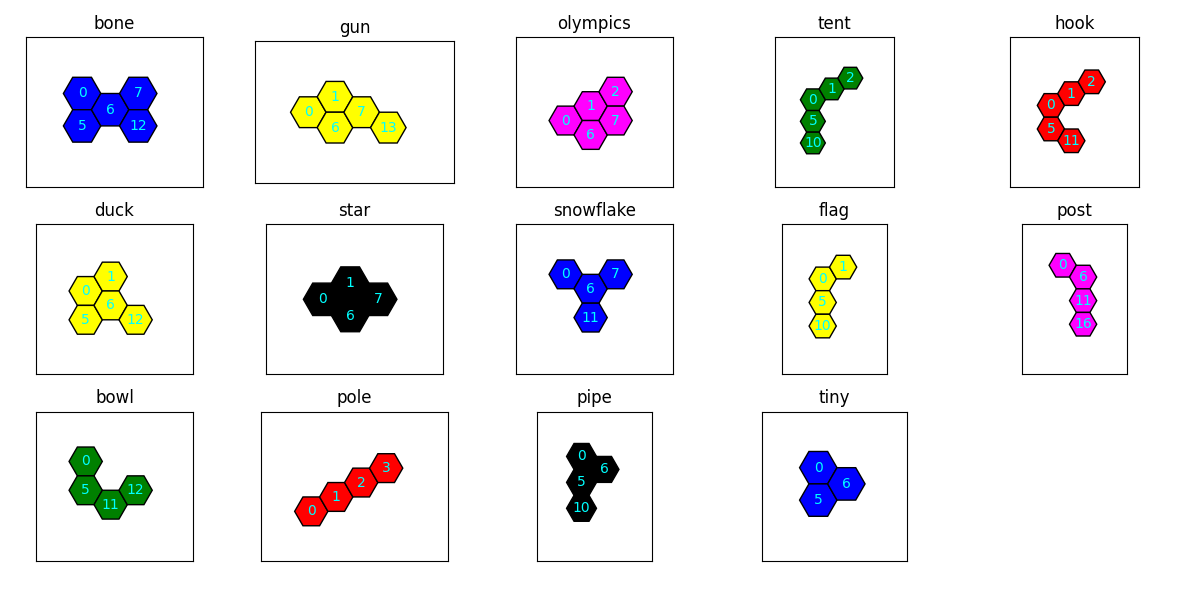
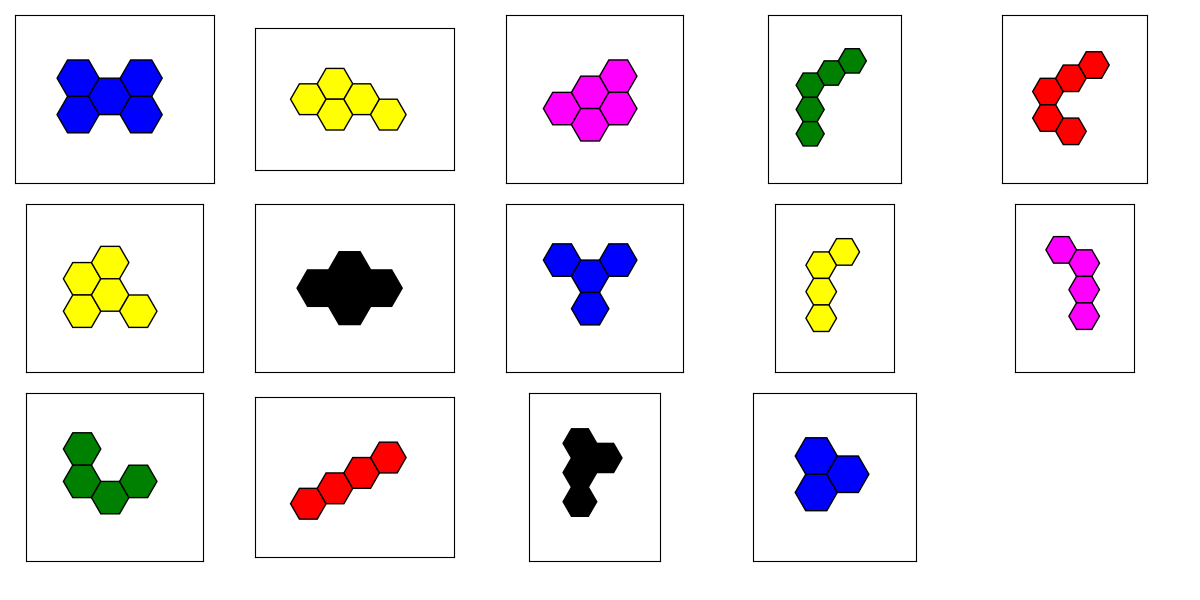
cosmetics

diff --git a/main.py b/main.py
@@ -210,7 +210,7 @@ def find_min_max(piece: Piece):
     return min(x_coords), max(x_coords), min(y_coords), max(y_coords)
 
 
-def draw_pieces(pieces: List[Piece], min_max=None, title=None, ax=None):
+def draw_pieces(pieces: List[Piece], min_max=None, title=None, ax=None, show_index=True):
             
     if not isinstance(pieces, list):
         raise TypeError("pieces must be a list of Piece objects")
@@ -233,7 +233,8 @@ def draw_pieces(pieces: List[Piece], min_max=None, title=None, ax=None):
         # draw hex by hex
         for h in piece.hexagons:
             ax.add_patch(h.polygon)
-            ax.text(h.xc, h.yc, h.index, ha='center', va='center', color='cyan')
+            if show_index:
+                ax.text(h.xc, h.yc, h.index, ha='center', va='center', color='cyan')
         
     # Set the aspect ratio to equal
     ax.set_aspect('equal')

diff --git a/README.md b/README.md
@@ -1,6 +1,6 @@
 # hexagon-puzzle
 
-There is this quite hard hexagonal puzzle with 14 pieces that I've been toying around with my kids. The goal is to fit all the pieces into one big hexagon shape. Here are the pieces (I gave them silly names based on associations so I can track them):
+There is this quite hard hexagonal puzzle with 14 pieces that I've been toying around with my kids. The goal is to fit all the pieces into one big hexagon shape:
 
 ![](pieces.png)
 
